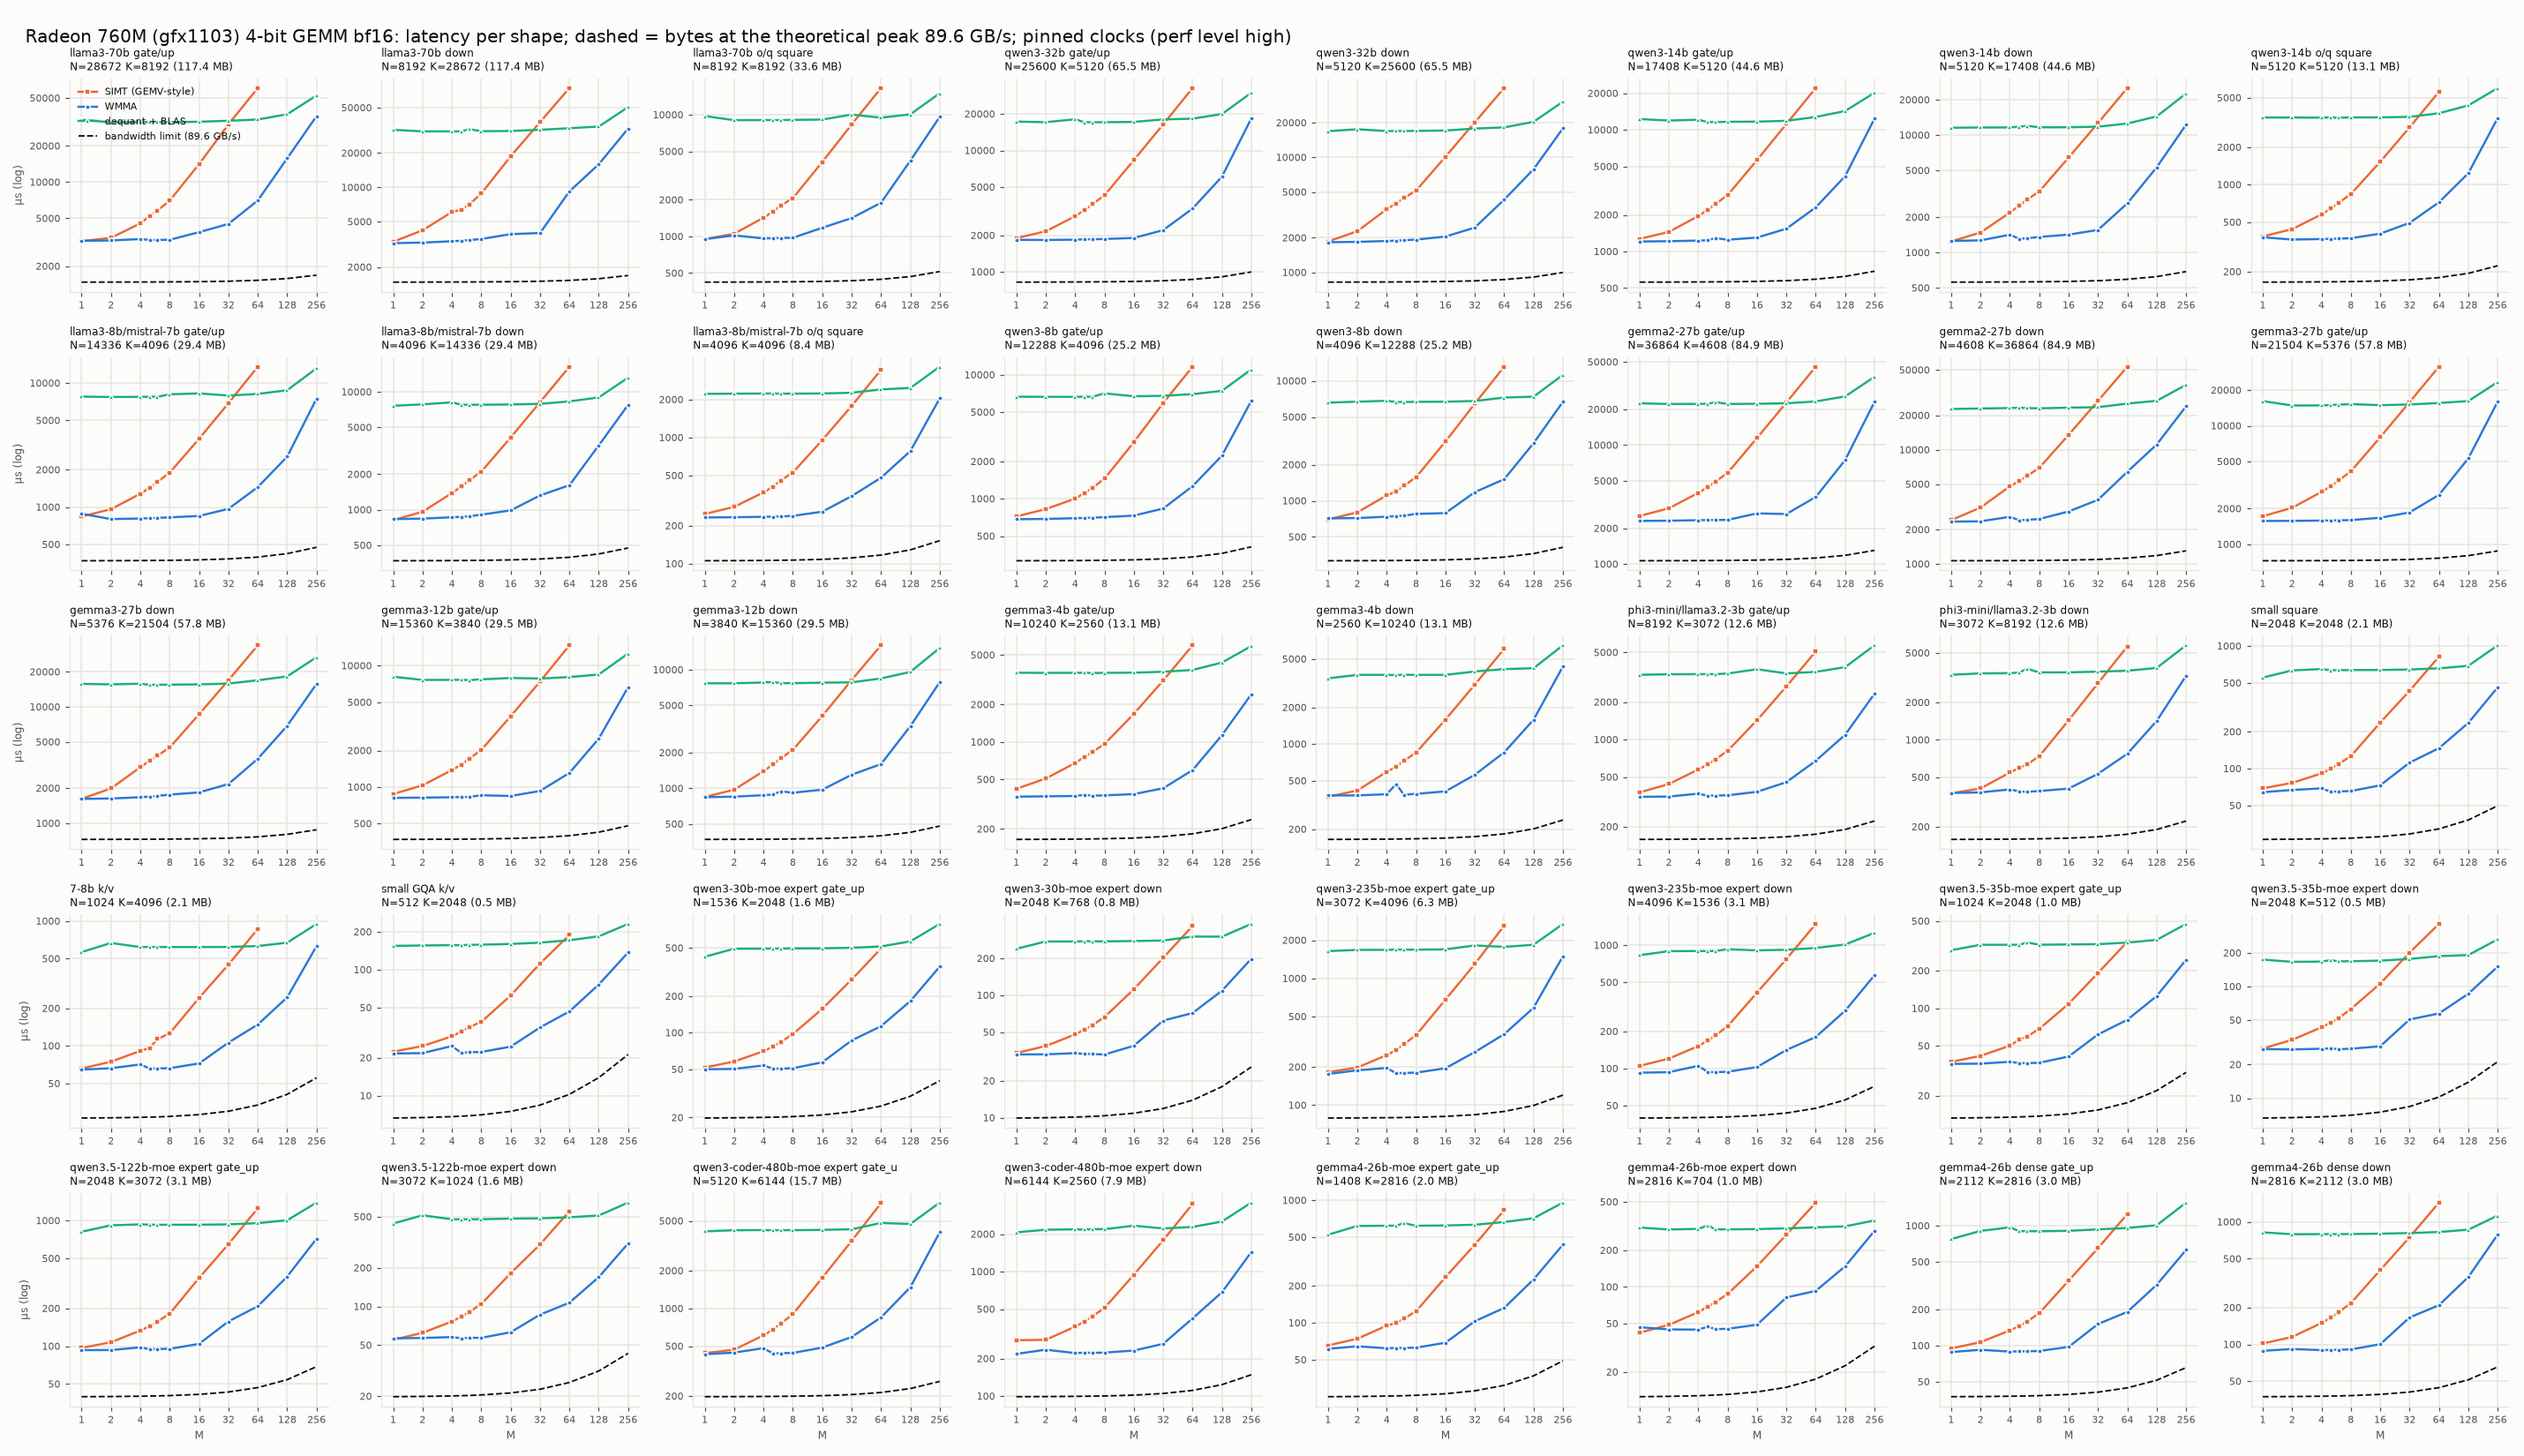
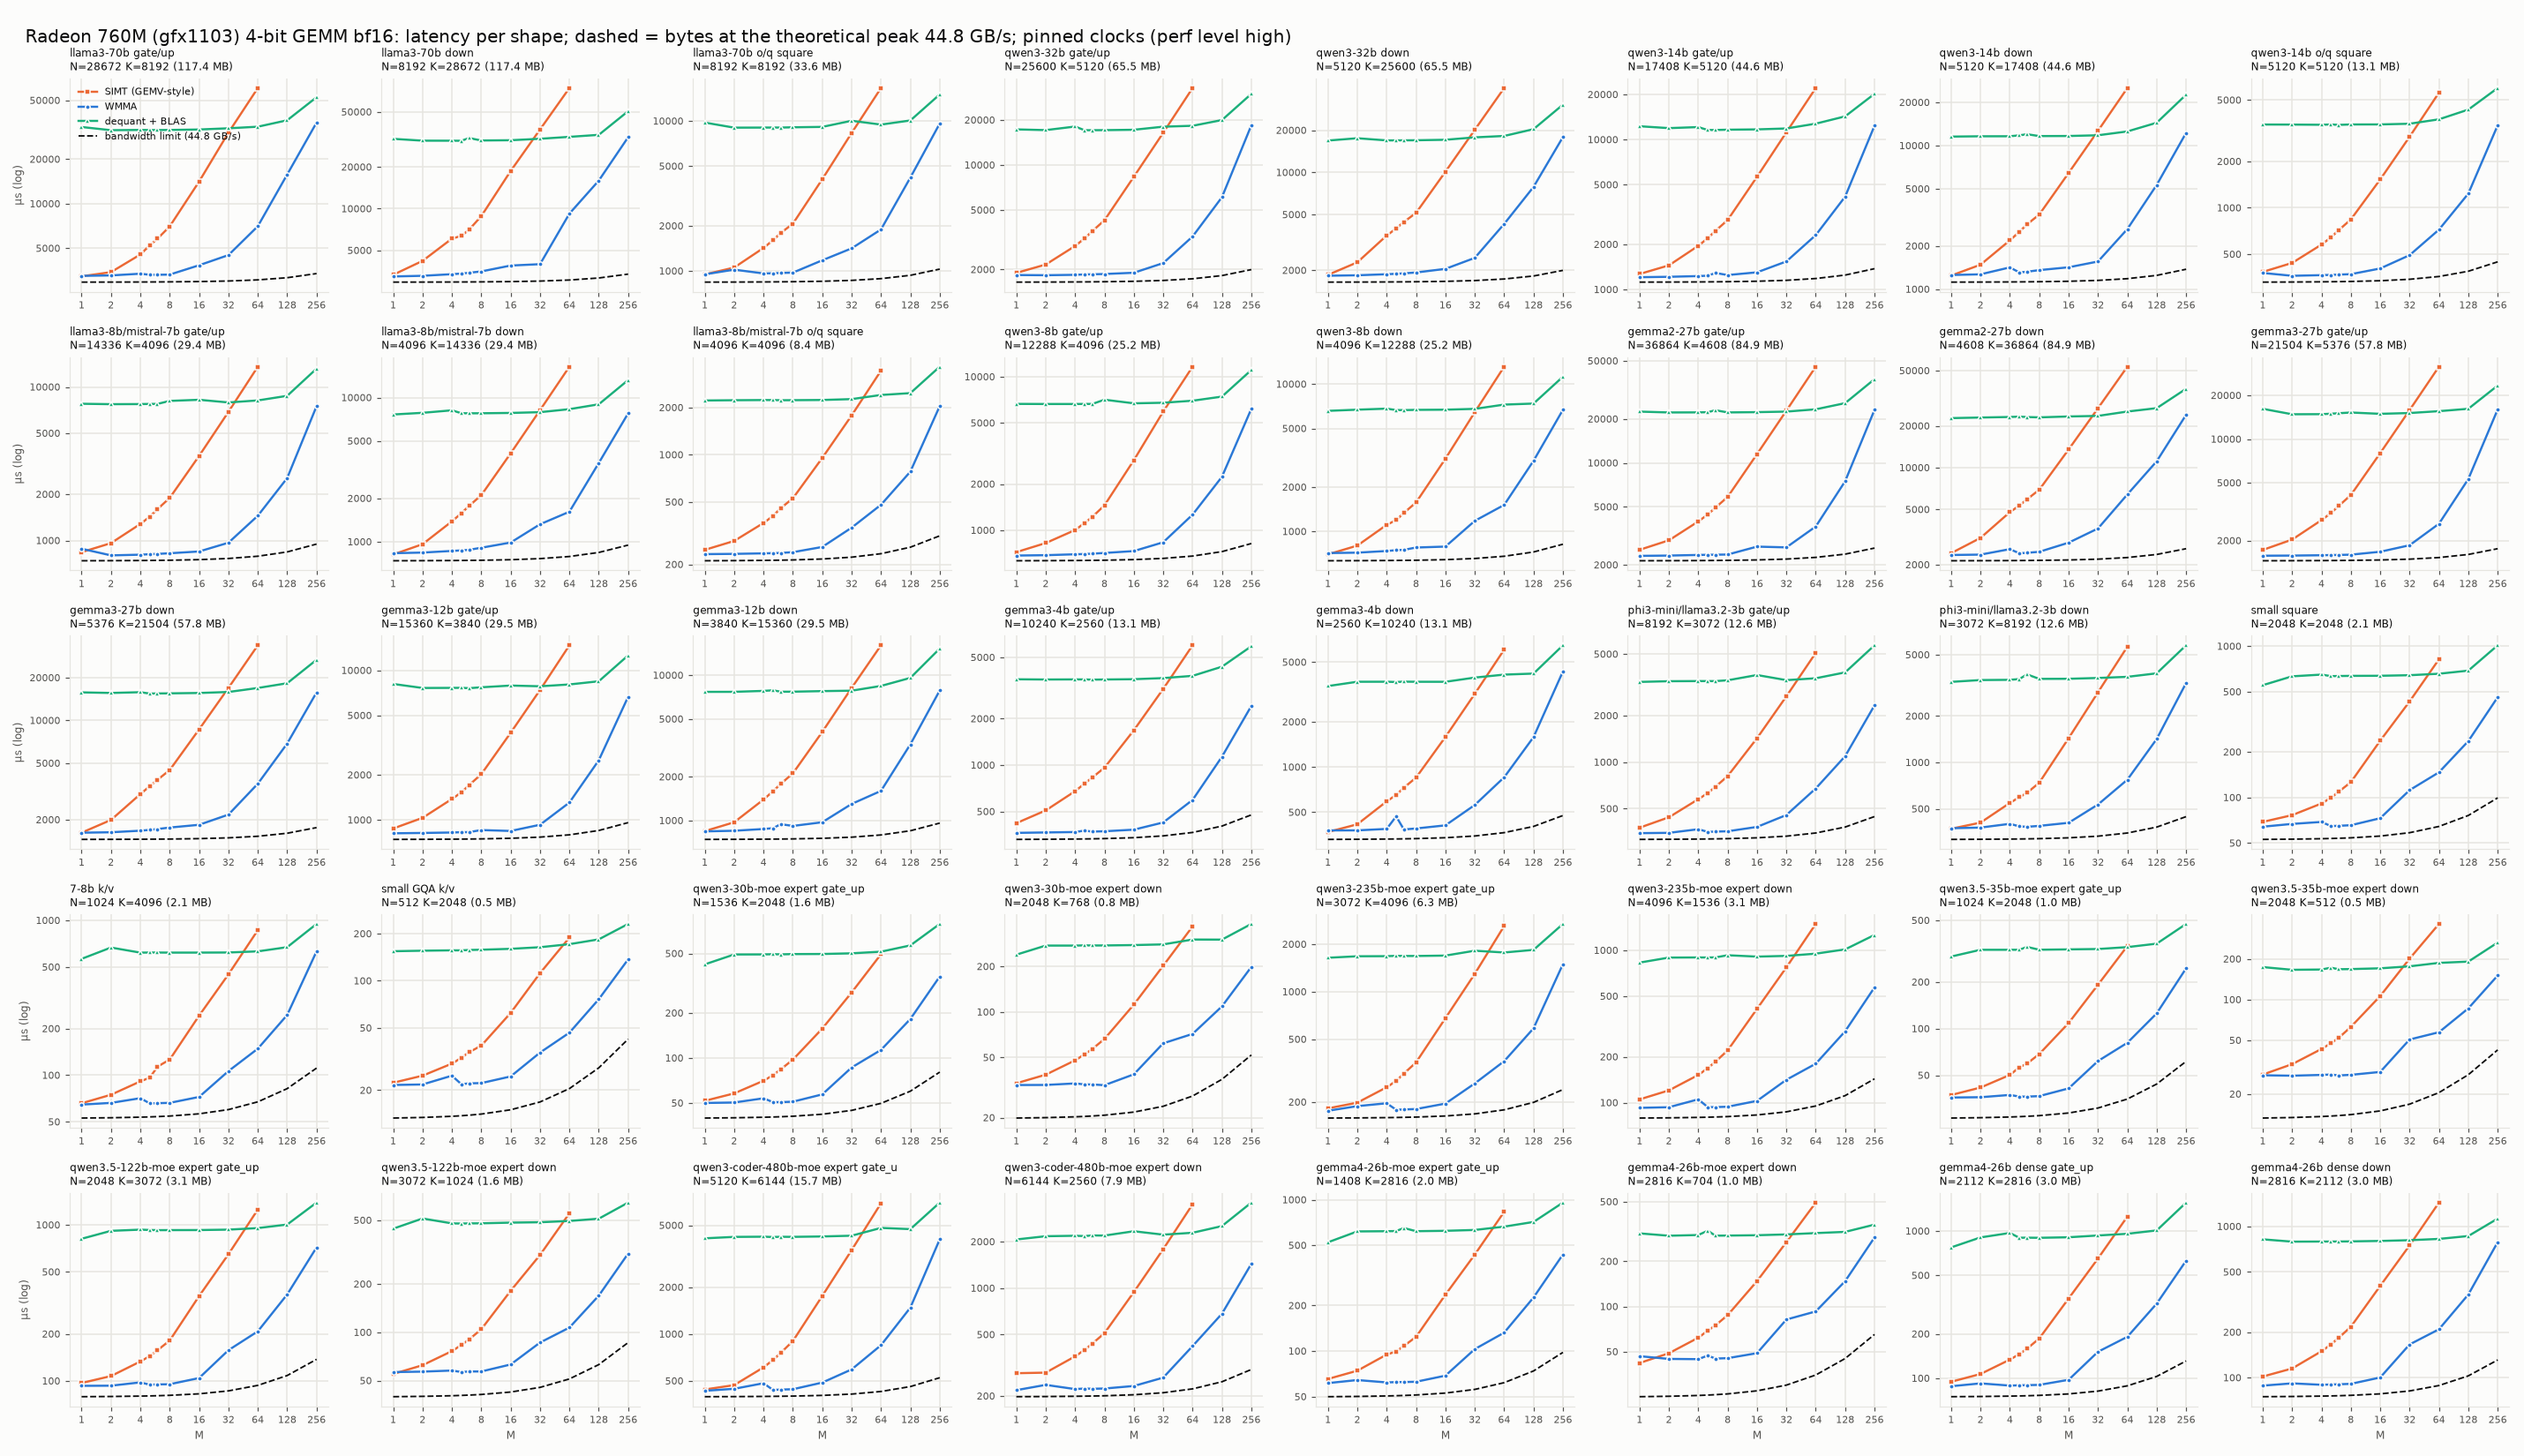
Benchmarks: gfx1103 in speedup vs main from the LPDDR5X 760M, first 760M at its real bandwidth
plots_vs_main.py takes gfx1103 from data/gfx1103_apu014 (final code: own tiles, limits
512/512) instead of the first 760M's run with the gfx1100 tiles, so the fp32 SIMT/WMMA
emulation for that older run is no longer needed. The first 760M has one DDR5-5600
SO-DIMM: its kernel plots are redrawn against 44.8 GB/s (they assumed 89.6 GB/s).

diff --git a/benchmarking/gemm_4bit_wmma/plots_vs_main.py b/benchmarking/gemm_4bit_wmma/plots_vs_main.py
@@ -25,7 +25,7 @@ RUNS = [
     ("Radeon Pro W7900", "gfx1100", f"{D}/gfx1100/pinned/eval_final.csv"),
     ("Radeon RX 7700 XT", "gfx1101", f"{D}/gfx1101/pinned/eval_final.csv"),
     ("Radeon RX 7600 XT", "gfx1102", f"{D}/gfx1102/pinned/dense/eval_final.csv"),
-    ("Radeon 760M", "gfx1103", f"{D}/gfx1103/pinned/eval_final.csv"),
+    ("Radeon 760M", "gfx1103", f"{D}/gfx1103_apu014/pinned/eval_final.csv"),
     ("Radeon 890M", "gfx1150", f"{D}/gfx1150/pinned/eval_final.csv"),
     ("Radeon 8060S", "gfx1151", f"{D}/gfx1151/pinned/dense/eval_final.csv"),
     ("Radeon RX 9060 XT", "gfx1200", f"{D}/gfx1200/pinned/dense/eval_final.csv"),
@@ -43,9 +43,9 @@ CAP = {
     "gfx1201": (384, 512),
 }
 DTYPES = ("fp16", "bf16", "fp32")
-# gfx1103's eval_final run predates its own fp32 SIMT/WMMA table (csrc/gemm_4bit.cu, gfx1103_fp32_wmma), so its fp32
-# "new" time applies that table to the forced SIMT and WMMA timings of the same run: (max M, min N for WMMA).
-FP32_RULE = {"gfx1103": [(2, 1 << 31), (4, 3840)]}
+# fp32 "new" time from the forced SIMT and WMMA timings by a SIMT/WMMA table, for runs whose `auto` predates it:
+# (max M, min N for WMMA). None at the moment.
+FP32_RULE = {}
 # Measurements left out: the first-in-process artifact of the gfx1102 runs (the first shape at M = 1-2 sometimes reads
 # ~1.44 ms instead of ~0.55 ms, in both builds and kernels; see data/gfx1102/NOTES.md). Those M use 39 shapes.
 SKIP = {("gfx1102", "bf16", "llama3-70b gate/up", 1), ("gfx1102", "bf16", "llama3-70b gate/up", 2)}

diff --git a/benchmarking/gemm_4bit_wmma/plots/README.md b/benchmarking/gemm_4bit_wmma/plots/README.md
@@ -24,7 +24,7 @@ absmax, A, C) once at peak DRAM bandwidth. Script: `../plots_kernels.py`.
 | Radeon 8060S (gfx1151) | 256 GB/s | [median](gfx1151/kernels_median.png) | [fp16](gfx1151/kernels_per_shape_fp16.png) | [bf16](gfx1151/kernels_per_shape_bf16.png) | [fp32](gfx1151/kernels_per_shape_fp32.png) |
 | Radeon RX 7600 XT (gfx1102) | 288 GB/s | [median](gfx1102/kernels_median.png) | [fp16](gfx1102/kernels_per_shape_fp16.png) | [bf16](gfx1102/kernels_per_shape_bf16.png) | [fp32](gfx1102/kernels_per_shape_fp32.png) |
 | Radeon 8050S (gfx1151, 32 CUs; gfx115x rules, see ../data/gfx1151_8050s/NOTES.md) | 256 GB/s | [median](gfx1151_8050s/kernels_median.png) | [fp16](gfx1151_8050s/kernels_per_shape_fp16.png) | - | [fp32](gfx1151_8050s/kernels_per_shape_fp32.png) |
-| Radeon 760M (gfx1103) | 89.6 GB/s | [median](gfx1103/kernels_median.png) | [fp16](gfx1103/kernels_per_shape_fp16.png) | [bf16](gfx1103/kernels_per_shape_bf16.png) | [fp32](gfx1103/kernels_per_shape_fp32.png) |
+| Radeon 760M (gfx1103, one DDR5-5600 SO-DIMM; measured with the gfx1100 tiles) | 44.8 GB/s | [median](gfx1103/kernels_median.png) | [fp16](gfx1103/kernels_per_shape_fp16.png) | [bf16](gfx1103/kernels_per_shape_bf16.png) | [fp32](gfx1103/kernels_per_shape_fp32.png) |
 | Radeon 760M (gfx1103, LPDDR5X-7500 machine; own tile rules, see ../data/gfx1103_apu014/NOTES.md) | 120 GB/s | [median](gfx1103_apu014/kernels_median.png) | [fp16](gfx1103_apu014/kernels_per_shape_fp16.png) | [bf16](gfx1103_apu014/kernels_per_shape_bf16.png) | [fp32](gfx1103_apu014/kernels_per_shape_fp32.png) |
 | Radeon 890M (gfx1150) | 120 GB/s | [median](gfx1150/kernels_median.png) | [fp16](gfx1150/kernels_per_shape_fp16.png) | [bf16](gfx1150/kernels_per_shape_bf16.png) | [fp32](gfx1150/kernels_per_shape_fp32.png) |
 
@@ -54,7 +54,7 @@ it there; `../data/gfx1102/NOTES.md`).
 ### Radeon 8050S (gfx1151, 32 CUs)
 ![](gfx1151_8050s/kernels_median.png)
 
-### Radeon 760M (gfx1103)
+### Radeon 760M (gfx1103), DDR5-5600 single-channel machine
 ![](gfx1103/kernels_median.png)
 
 ### Radeon 760M (gfx1103), LPDDR5X-7500 machine

diff --git a/benchmarking/gemm_4bit_wmma/plots/speedup_vs_main.md b/benchmarking/gemm_4bit_wmma/plots/speedup_vs_main.md
@@ -11,9 +11,9 @@ Speedup in total time over the 40 shapes, this branch vs main (see plots_vs_main
 | Radeon RX 7600 XT (gfx1102) | fp16 | 1.03x | 1.84x | 3.00x | 7.96x | 6.12x | 3.82x | 2.27x | 1.72x | 1.37x |
 | Radeon RX 7600 XT (gfx1102) | bf16 | 1.05x | 1.80x | 2.91x | 8.11x | 6.23x | 3.89x | 2.28x | 1.72x | 1.37x |
 | Radeon RX 7600 XT (gfx1102) | fp32 | 1.00x | 1.06x | 1.79x | 6.79x | 3.66x | 2.94x | 2.70x | 2.52x | 2.44x |
-| Radeon 760M (gfx1103) | fp16 | 1.01x | 1.73x | 2.50x | 8.63x | 7.47x | 4.89x | 2.78x | 1.70x | - |
-| Radeon 760M (gfx1103) | bf16 | 1.02x | 1.65x | 2.34x | 8.59x | 7.40x | 4.79x | 2.71x | 1.64x | - |
-| Radeon 760M (gfx1103) | fp32 | 1.00x | 1.35x | 2.05x | 9.20x | 5.33x | 3.86x | 3.49x | 3.31x | - |
+| Radeon 760M (gfx1103) | fp16 | 1.48x | 3.61x | 5.43x | 8.53x | 5.87x | 3.66x | 2.15x | 1.62x | 1.70x |
+| Radeon 760M (gfx1103) | bf16 | 1.41x | 3.47x | 5.24x | 9.48x | 6.55x | 4.04x | 2.14x | 1.67x | 1.76x |
+| Radeon 760M (gfx1103) | fp32 | 1.00x | 1.50x | 2.35x | 7.55x | 3.93x | 3.36x | 3.10x | 2.94x | 2.91x |
 | Radeon 890M (gfx1150) | fp16 | 1.16x | 1.64x | 2.42x | 7.92x | 6.78x | 4.27x | 2.55x | 1.95x | 1.69x |
 | Radeon 890M (gfx1150) | bf16 | 1.12x | 1.57x | 2.45x | 8.21x | 7.02x | 4.41x | 2.70x | 1.98x | 1.70x |
 | Radeon 890M (gfx1150) | fp32 | 1.00x | 1.10x | 1.92x | 7.94x | 5.02x | 3.71x | 2.98x | 3.14x | 3.11x |
